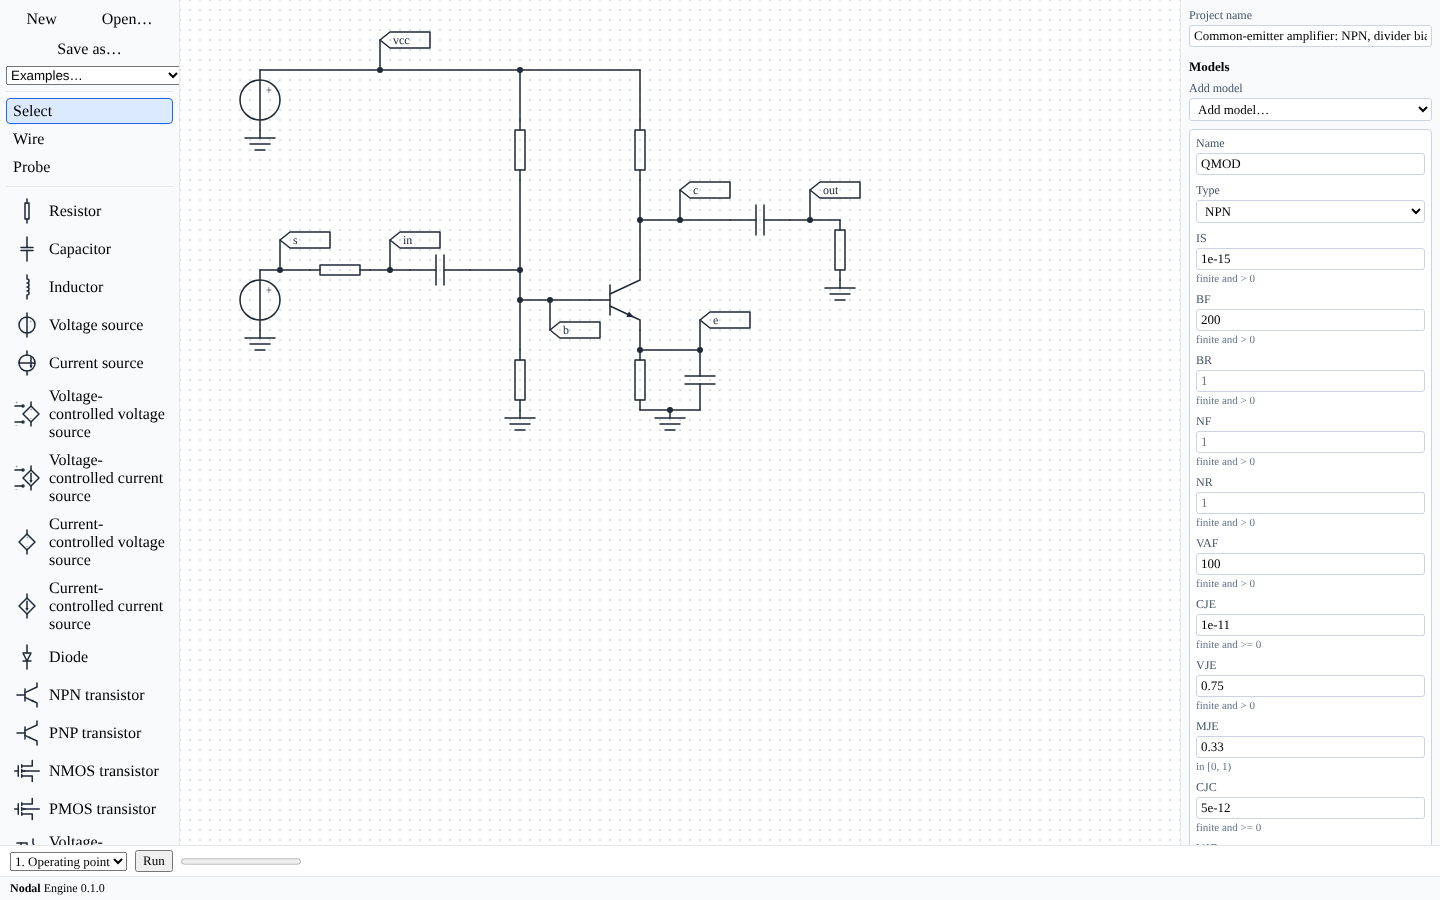
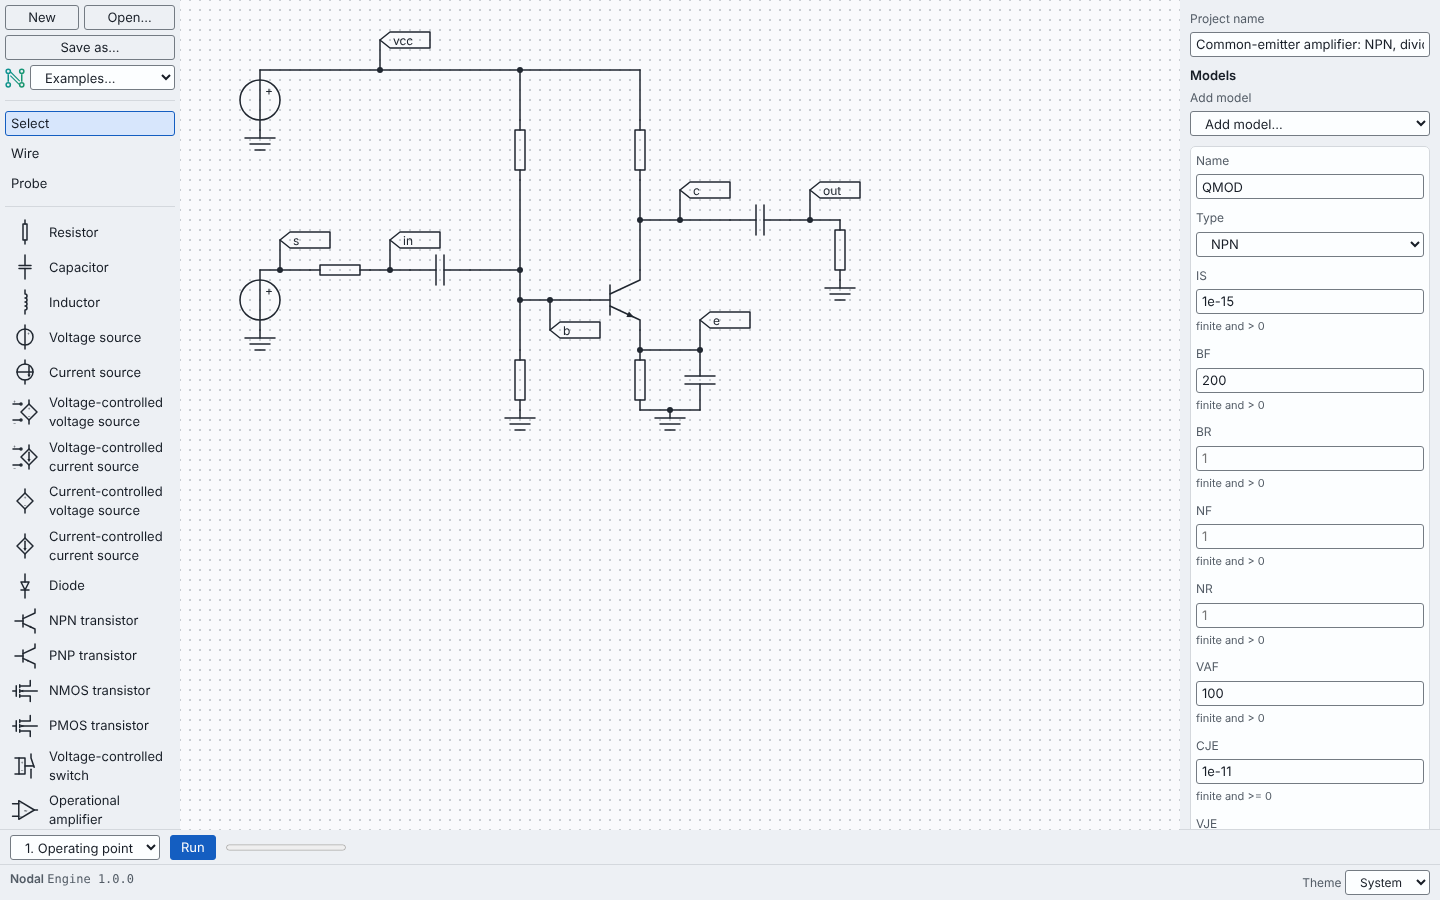
chore: v1.0.0
Bump every pinned version from 0.1.0 to 1.0.0 (workspace crates, package.json files, tests that assert it). Rebuild the user-guide screenshots, and re-baseline the visual snapshots locally for the new status-bar text; CI renders replace them.

diff --git a/apps/web/src/engine/client.test.ts b/apps/web/src/engine/client.test.ts
@@ -57,8 +57,8 @@ describe("EngineClient", () => {
     const p = client.version();
     const w = nth(workers, 0);
     expect(w.postMessage).toHaveBeenCalledWith({ type: "version", id: w.lastId() });
-    w.reply({ type: "version", id: w.lastId(), version: "0.1.0" });
-    await expect(p).resolves.toBe("0.1.0");
+    w.reply({ type: "version", id: w.lastId(), version: "1.0.0" });
+    await expect(p).resolves.toBe("1.0.0");
   });
 
   it("version_times_out", async () => {

diff --git a/apps/web/src/App.test.tsx b/apps/web/src/App.test.tsx
@@ -24,9 +24,9 @@ describe("App", () => {
   });
 
   it("shows the engine version", async () => {
-    mocked.mockResolvedValue("0.1.0");
+    mocked.mockResolvedValue("1.0.0");
     render(<App />);
-    expect((await screen.findByText("Engine 0.1.0")).textContent).toBe("Engine 0.1.0");
+    expect((await screen.findByText("Engine 1.0.0")).textContent).toBe("Engine 1.0.0");
   });
 
   it("shows an error when the engine fails", async () => {

diff --git a/apps/web/e2e/shell.spec.ts b/apps/web/e2e/shell.spec.ts
@@ -12,7 +12,7 @@ test("shell shows engine version from WASM worker", async ({ page }) => {
 
   await page.goto("./");
 
-  await expect(page.getByTestId("engine-status")).toHaveText("Engine 0.1.0", {
+  await expect(page.getByTestId("engine-status")).toHaveText("Engine 1.0.0", {
     timeout: 10_000,
   });
   expect(failedRequests).toEqual([]);

diff --git a/crates/nodal-cli/tests/cli.rs b/crates/nodal-cli/tests/cli.rs
@@ -24,7 +24,7 @@ fn version_flag() -> Result<(), Box<dyn Error>> {
     assert_eq!(out.status.code(), Some(0));
     assert_eq!(
         String::from_utf8(out.stdout)?,
-        "nodal-cli 0.1.0 (engine 0.1.0)\n"
+        "nodal-cli 1.0.0 (engine 1.0.0)\n"
     );
     Ok(())
 }

diff --git a/crates/nodal-wasm/tests/node.rs b/crates/nodal-wasm/tests/node.rs
@@ -2,7 +2,7 @@
 
 #[wasm_bindgen_test::wasm_bindgen_test]
 fn engine_version_is_crate_version() {
-    assert_eq!(nodal_wasm::engine_version(), "0.1.0");
+    assert_eq!(nodal_wasm::engine_version(), "1.0.0");
 }
 
 const RC_TRAN: &str = r#"{

diff --git a/crates/nodal-engine/src/lib.rs b/crates/nodal-engine/src/lib.rs
@@ -125,6 +125,6 @@ pub const VERSION: &str = env!("CARGO_PKG_VERSION");
 mod tests {
     #[test]
     fn version_matches_manifest() {
-        assert_eq!(super::VERSION, "0.1.0");
+        assert_eq!(super::VERSION, "1.0.0");
     }
 }
